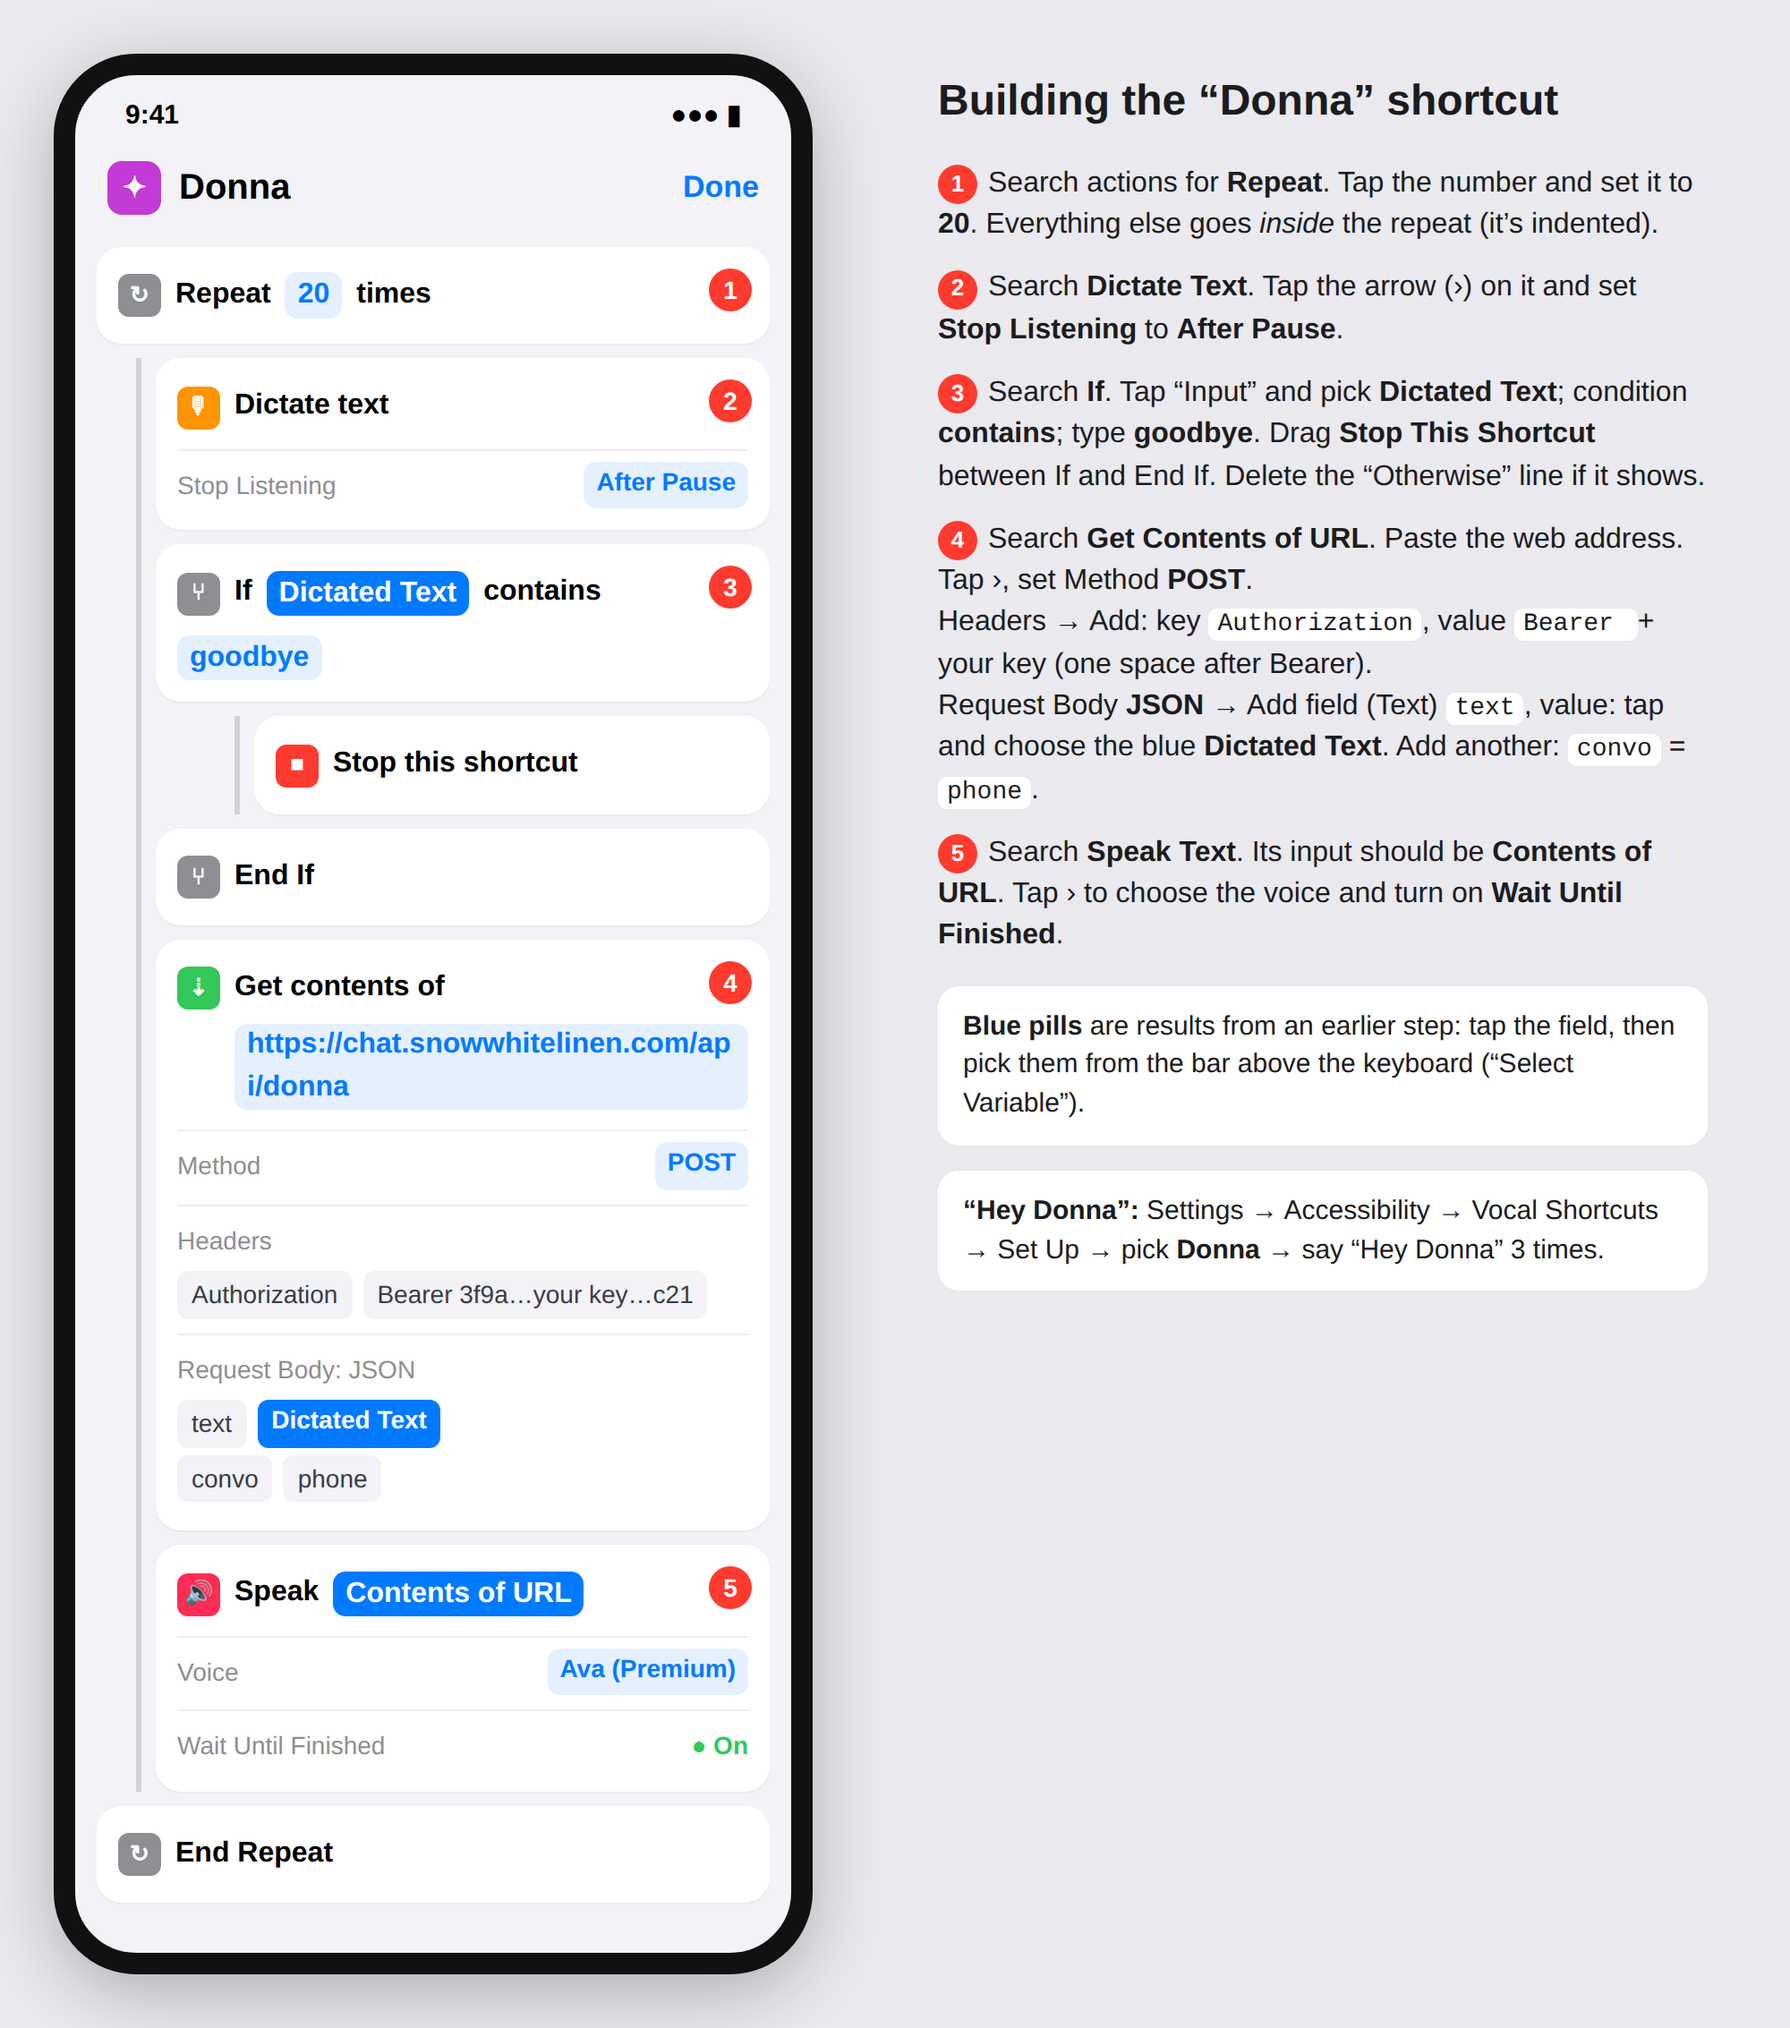
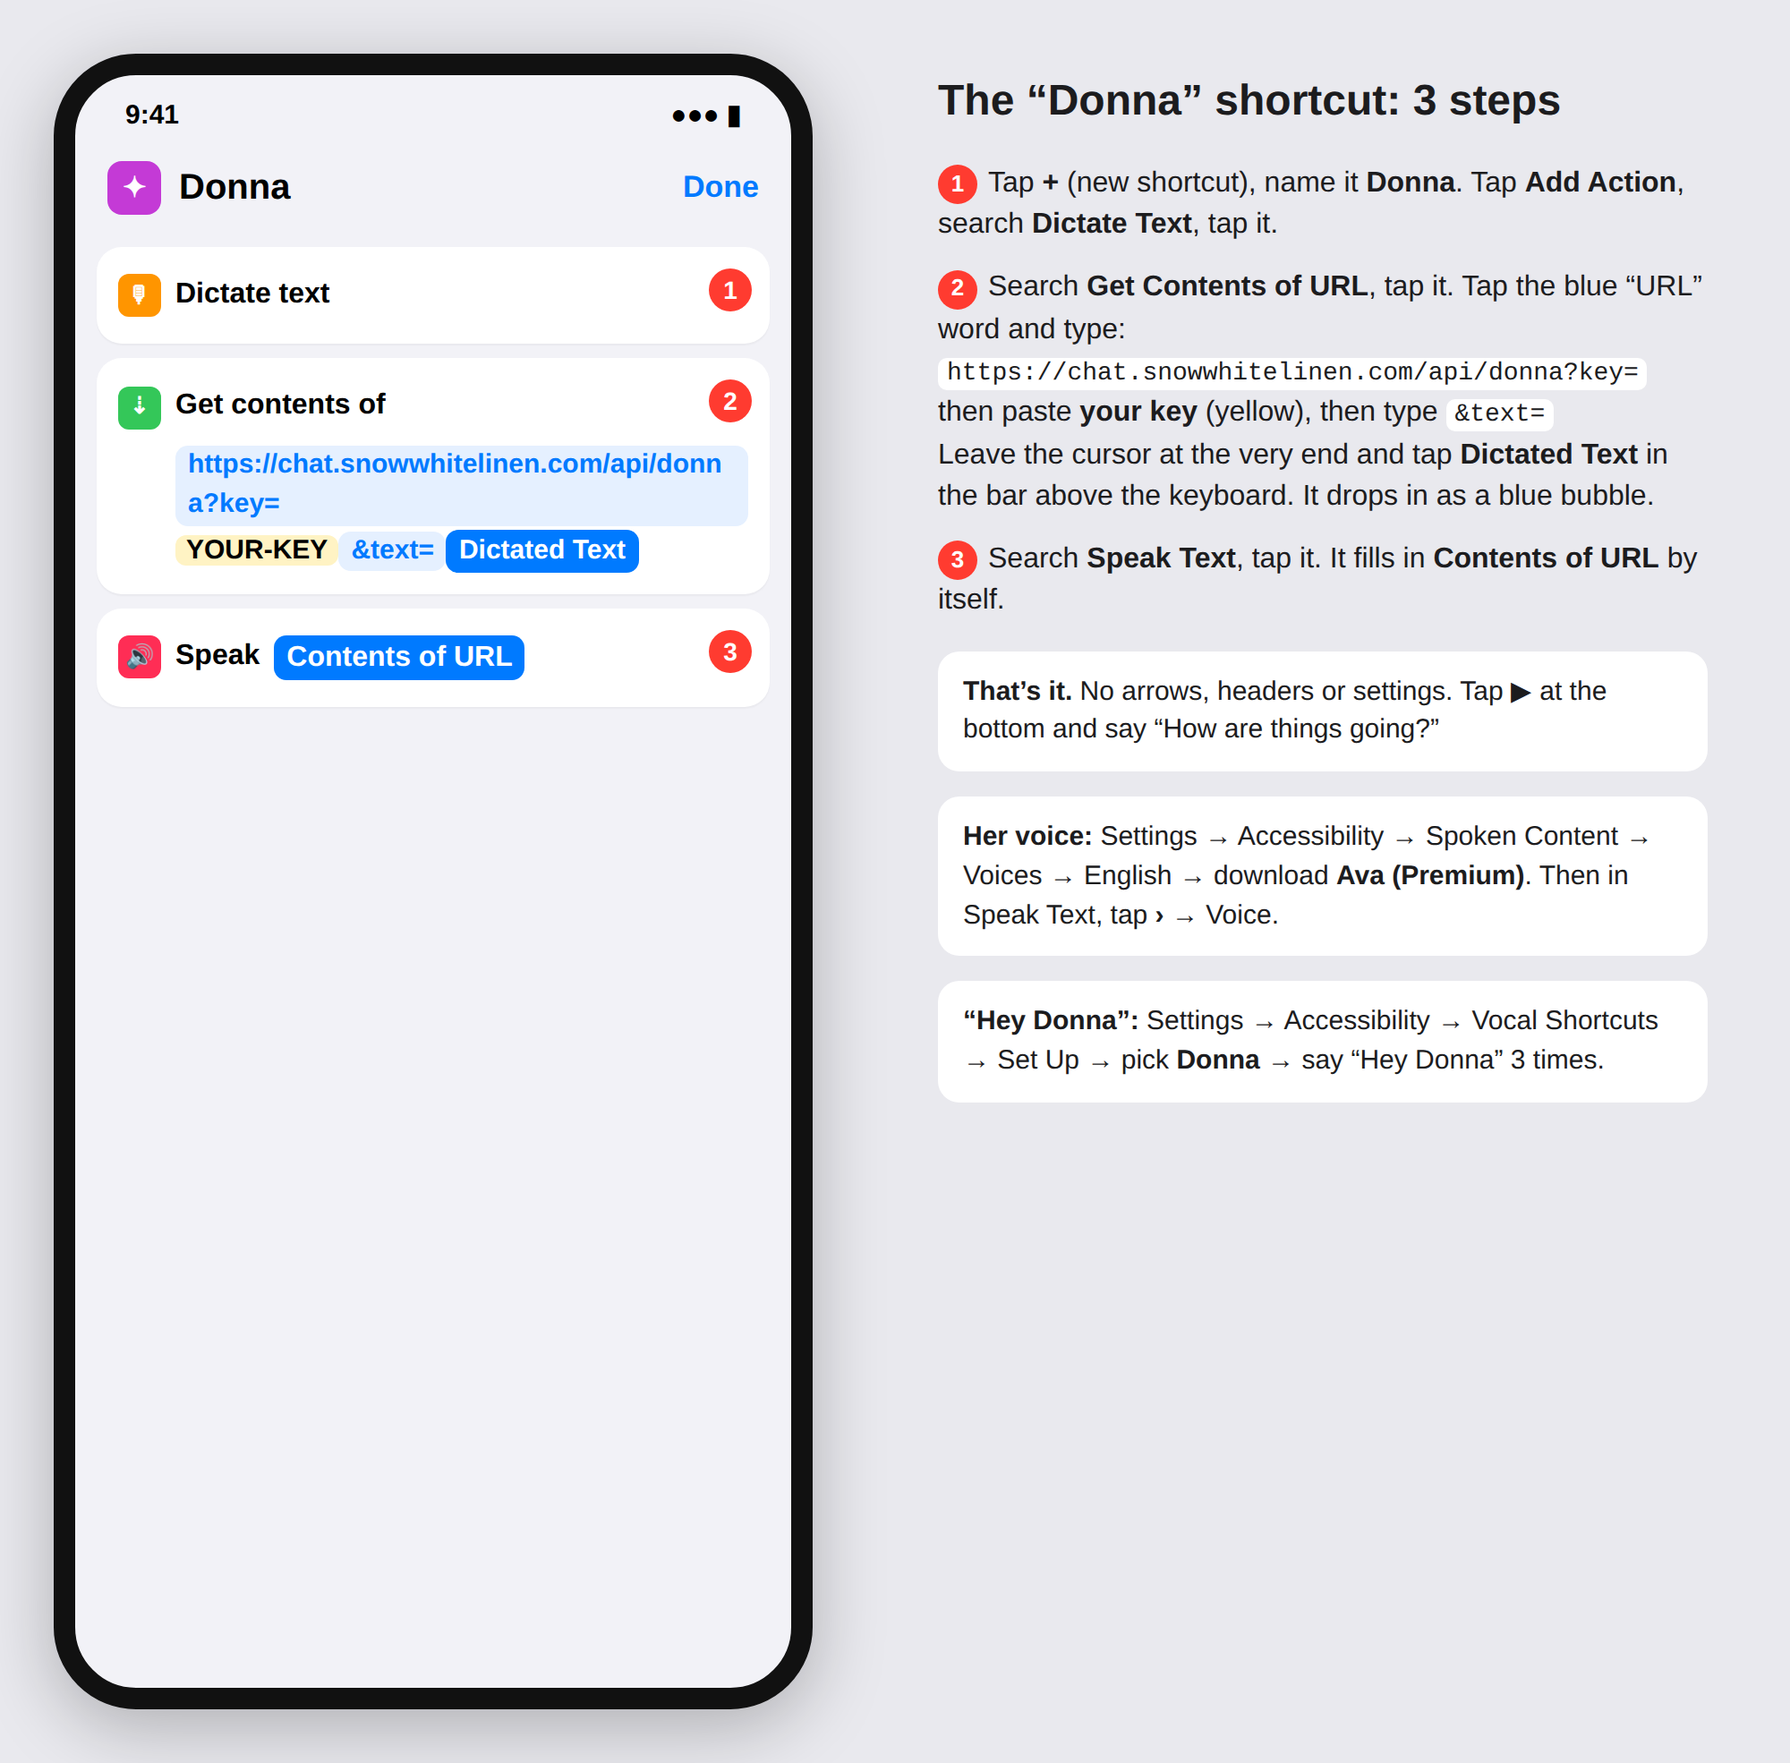
Hey Donna: a 3-step shortcut, with the key and words in the address
GET /api/donna?key=...&text=... works the same as the POST, so the iPhone shortcut is just Dictate Text,
Get Contents of URL, Speak Text, with nothing to set under hidden menus. Picture updated.

Claude-Session: https://claude.ai/code/session_01Ls4eKQ1Nq7g22xRkeU3WLi

diff --git a/service_changes/webchat.py b/service_changes/webchat.py
@@ -438,6 +438,8 @@ def make_handler(chat: Chat, public_url: str):
             base = self._base()
             if u.path == "/health":
                 return self._send(200, b"ok", "text/plain")
+            if u.path == "/api/donna":  # the simple shortcut: .../api/donna?key=...&text=what he said
+                return self._donna(q)
             if u.path == "/widget.js":
                 site = (q.get("site") or ["sw"])[0]
                 if site not in COMPANIES:
@@ -506,18 +508,26 @@ def make_handler(chat: Chat, public_url: str):
                 print(time.strftime("%H:%M"), "error:", e, flush=True)
                 self._send(200, json.dumps({"reply": "Sorry, something went wrong on our end. Please call us at "
                                                      "(907) 222-7738.", "events": []}).encode(), "application/json")
-        def _donna(self):
-            """Scott's "Hey Donna" iPhone Shortcut: his private key, then on to the desk (desk.voice) on this server."""
+        def _donna(self, q: dict | None = None):
+            """Scott's "Hey Donna" iPhone Shortcut: his private key, then on to the desk (desk.voice) on this server.
+            Either a GET with ?key=...&text=... in the address (nothing to set up in the shortcut but the address), or a
+            POST with "Authorization: Bearer <key>" and {"text", "convo"}."""
             import hmac
             key = os.environ.get("OWNER_VOICE_TOKEN", "")
-            given = (self.headers.get("Authorization") or "").removeprefix("Bearer ").strip()
+            if q is not None:
+                given = (q.get("key") or [""])[0].strip()
+            else:
+                given = (self.headers.get("Authorization") or "").removeprefix("Bearer ").strip()
             if len(key) < 24 or not hmac.compare_digest(given.encode(), key.encode()):
                 time.sleep(1)  # slows down guessing
                 return self._send(404, b"not found", "text/plain")
             try:
-                n = min(int(self.headers.get("Content-Length") or 0), 8000)
-                body = self.rfile.read(n) or b"{}"
-                json.loads(body)
+                if q is not None:
+                    body = json.dumps({"text": (q.get("text") or [""])[0], "convo": (q.get("convo") or ["phone"])[0]}).encode()
+                else:
+                    n = min(int(self.headers.get("Content-Length") or 0), 8000)
+                    body = self.rfile.read(n) or b"{}"
+                    json.loads(body)
                 req = urllib.request.Request(f"http://127.0.0.1:{os.environ.get('DESK_VOICE_PORT', '8091')}/voice", data=body,
                                              headers={"Content-Type": "application/json"})
                 with urllib.request.urlopen(req, timeout=110) as r:

diff --git a/service_changes/test_alliant_help.py b/service_changes/test_alliant_help.py
@@ -233,3 +233,24 @@ def test_donna_voice_needs_scotts_key(monkeypatch):
     assert call("Bearer " + "k" * 32) == (200, b"Hi Harvey.")
     monkeypatch.setenv("OWNER_VOICE_TOKEN", "short")
     assert call("Bearer short")[0] == 404  # a weak key never works
+
+
+def test_donna_simple_address(monkeypatch):
+    import io, json
+    import urllib.request
+    from .webchat import make_handler
+    monkeypatch.setenv("OWNER_VOICE_TOKEN", "k" * 32)
+    monkeypatch.setattr("time.sleep", lambda s: None)
+    got, sent = [], []
+    monkeypatch.setattr(urllib.request, "urlopen", lambda req, timeout: got.append(json.loads(req.data)) or io.BytesIO(b"Hi Harvey."))
+    H = make_handler(None, "https://x")
+
+    def get(path):
+        h = H.__new__(H)
+        h.path, h.headers = path, {}
+        h._send = lambda code, body, ctype, cache=0: sent.append((code, body))
+        h.do_GET()
+        return sent[-1]
+    assert get("/api/donna?key=" + "k" * 32 + "&text=How%20are%20things%20going%3F") == (200, b"Hi Harvey.")
+    assert got[-1] == {"text": "How are things going?", "convo": "phone"}
+    assert get("/api/donna?key=nope&text=hi")[0] == 404 and len(got) == 1
